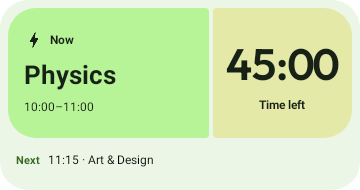
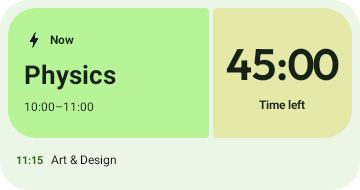
fix(widgets): label supplementary events truthfully during overlaps

Changed region(s): [[0.0306, 0.8158, 0.4278, 0.8947]]

diff --git a/app/src/main/java/cc/xdan/tempo/widgets/AdaptiveWidgetRenderer.kt b/app/src/main/java/cc/xdan/tempo/widgets/AdaptiveWidgetRenderer.kt
@@ -246,9 +246,9 @@ private class AdaptiveWidgetSnapshot(
                 if (plan.wideContext) {
                     val next = p.plan?.later?.firstOrNull()
                     Row(GlanceModifier.fillMaxWidth().height(44.dp).padding(horizontal = 8.dp), verticalAlignment = Alignment.Vertical.CenterVertically) {
-                        Label(if (next != null) "Next" else if (p.plan != null) "Finish" else "Tempo", scheme.primary, 11, true)
+                        Label(next?.let { minuteLabel(it.time.start) } ?: if (p.plan != null) "Finish" else "Tempo", scheme.primary, 11, true)
                         Spacer(GlanceModifier.width(8.dp))
-                        Label(next?.let { "${minuteLabel(it.time.start)} · ${it.title()}" } ?: p.plan?.let { minuteLabel(it.finish) } ?: detail,
+                        Label(next?.title() ?: p.plan?.let { minuteLabel(it.finish) } ?: detail,
                             scheme.onSurface, 12, modifier = GlanceModifier.defaultWeight())
                     }
                 }
